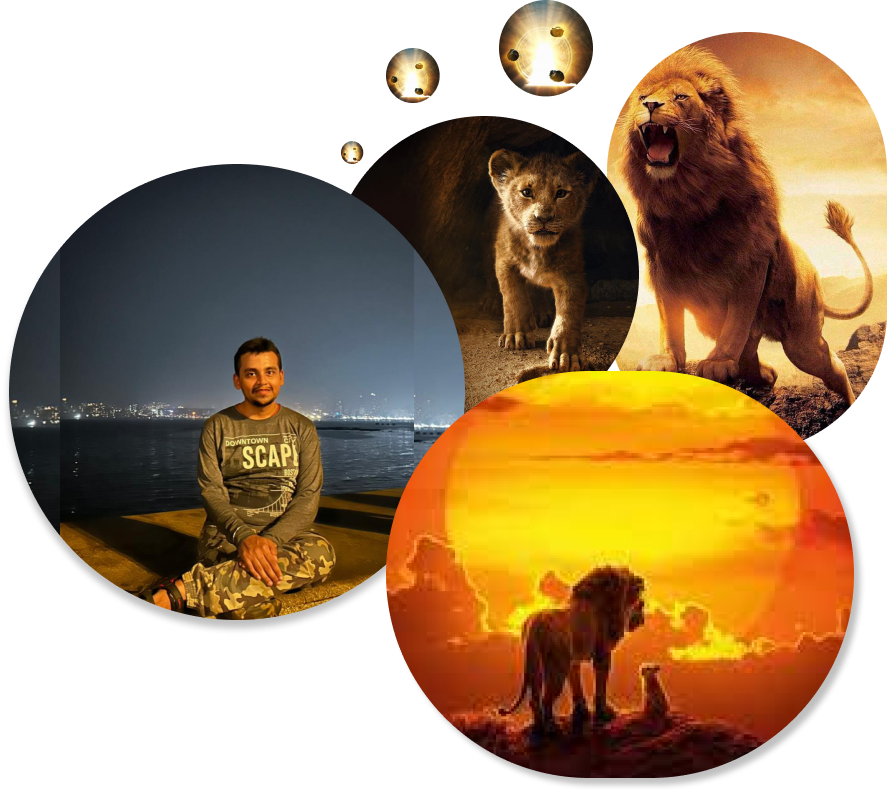
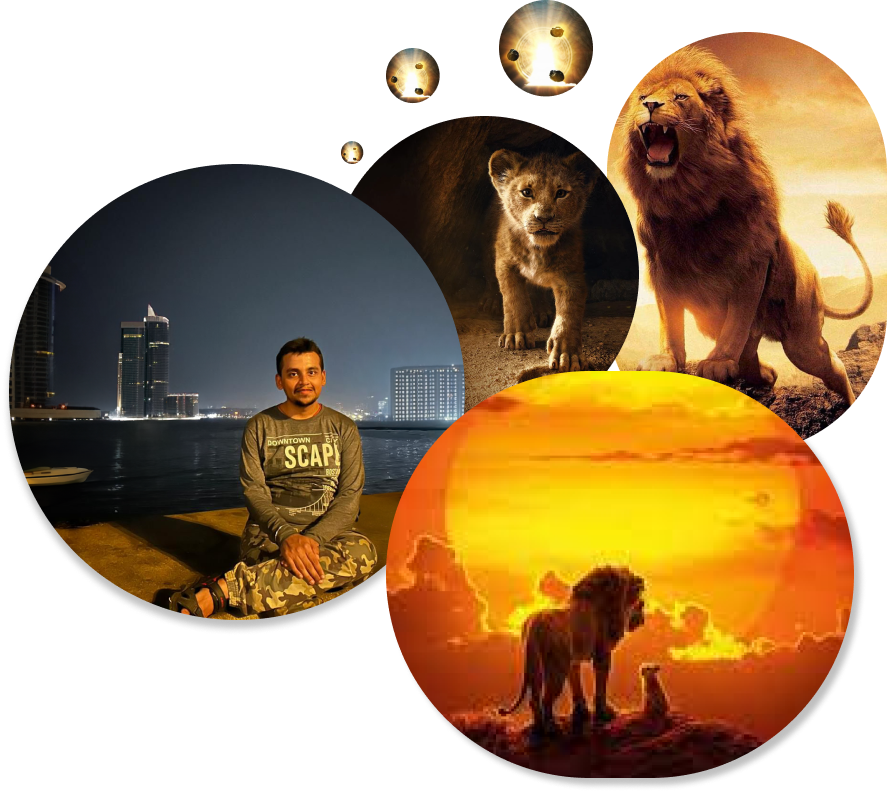
new image and qoute and typo fix

Changed region(s): [[0.0, 0.303, 0.5175, 0.7879]]

diff --git a/index.html b/index.html
@@ -131,7 +131,7 @@
 
       <div class="row">
         <div class="col-lg-4" data-aos="fade-right">
-          <img src="assets/img/abhishek-mishra.png" class="img-fluid my-img" loading="lazy" alt="Image of Abhishek Mishra">
+          <img src="assets/img/s.png" class="img-fluid my-img" loading="lazy" alt="Image of Abhishek Mishra">
         </div>
         <div class="col-lg-8 pt-4 pt-lg-0 content" data-aos="fade-left">
           <div class="section-title responsive-design">
@@ -149,7 +149,6 @@
                 <li><i class="fa-brands fa-github"></i> <strong>GitHub Profile:</strong> <a href="https://github.com/abmincodecreations" target="_blank">abmincodecreations</a></li>
                 <li><i class="icofont-phone-circle"></i> <strong>Phone:</strong> +919439501955</li>
                 <li><i class="icofont-location-pin"></i> <strong>City: </strong> Bengaluru,India.</li>
-                <li><i class="icofont-boy"></i> <strong>Age:</strong> 22.</li>
               </ul>
             </div>
           </div>
@@ -278,6 +277,16 @@
       </div>
 
     </div><!-- End Interests -->
+
+    <div class="card-1 row justify-content-center">
+      <div class="col-12 mt-4">
+        <img src="assets/img/abhishek-mishra.png" class="img-fluid  "  style = "width:85vw" loading="lazy">
+      </div>
+      <div class="qoutes col-10 justify-content-center">
+      <p> " Good design comes from a clear vision, a space for creativity & informed decisions based on research findings " </p>
+      </div>
+    </div>
+
 <nav class="justify-content-center">
 <div class="d-flex justify-content-center">
   <button class="page-btn m-2" aria-label="Next Page Button" onClick="gotoResume()"> Next-page<i class="icofont-rounded-right"></i></button>
@@ -425,7 +434,7 @@
           </div>
 
           <div class="resume-item">
-            <h4>User Experience </h4>
+            <h4>User Experience Engineer </h4>
             <h5>Feb,2020 - Sep,2021</h5>
             <p><em>Purplenet Technologies, Bengaluru, Karnataka</em></p>
             <p>

diff --git a/assets/css/style.css b/assets/css/style.css
@@ -187,7 +187,26 @@ Loading Page Style
   flex-direction: row;
 }
 
+.card-1 {
+  text-align: center;
+  width: fit-content;
+  margin: 25px;
+  background: #fff;
+  color: #0f2b17;
+  display: flex;
+  flex-direction: row;
+}
+.card-1 .qoutes {
+  text-align: center;
+  text-wrap: balance;
+  margin: 10px;
+  font-size: 2rem;
+  font-weight: 400;
+  font-family: "Poppins", sans-serif;
+  color: #3d3d3d;
+}
 .card .content {
+  text-wrap: balance;
   text-align: left;
   align-content: center;
   width: 50%;
@@ -302,7 +321,7 @@ Loading Page Style
 }
 @media only screen and (max-width: 1000px) {
   .card .content {
-    width: 50%;
+    width: 100%;
     margin: 30px;
     font-size: 30px;
     font-weight: 700;
